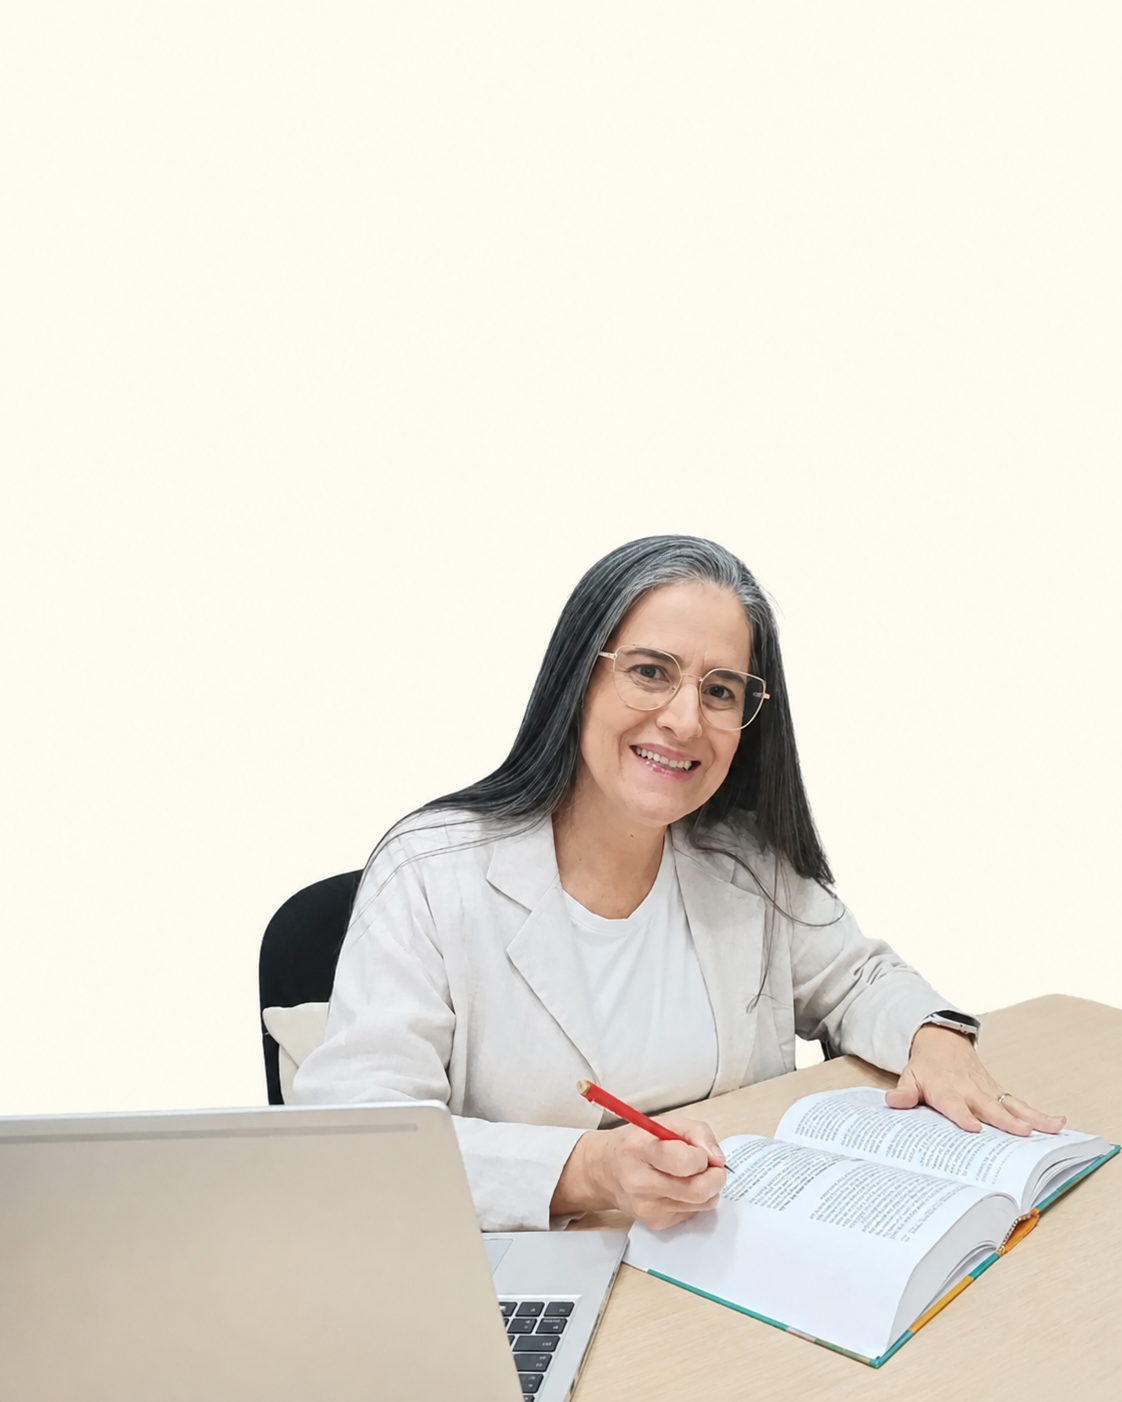
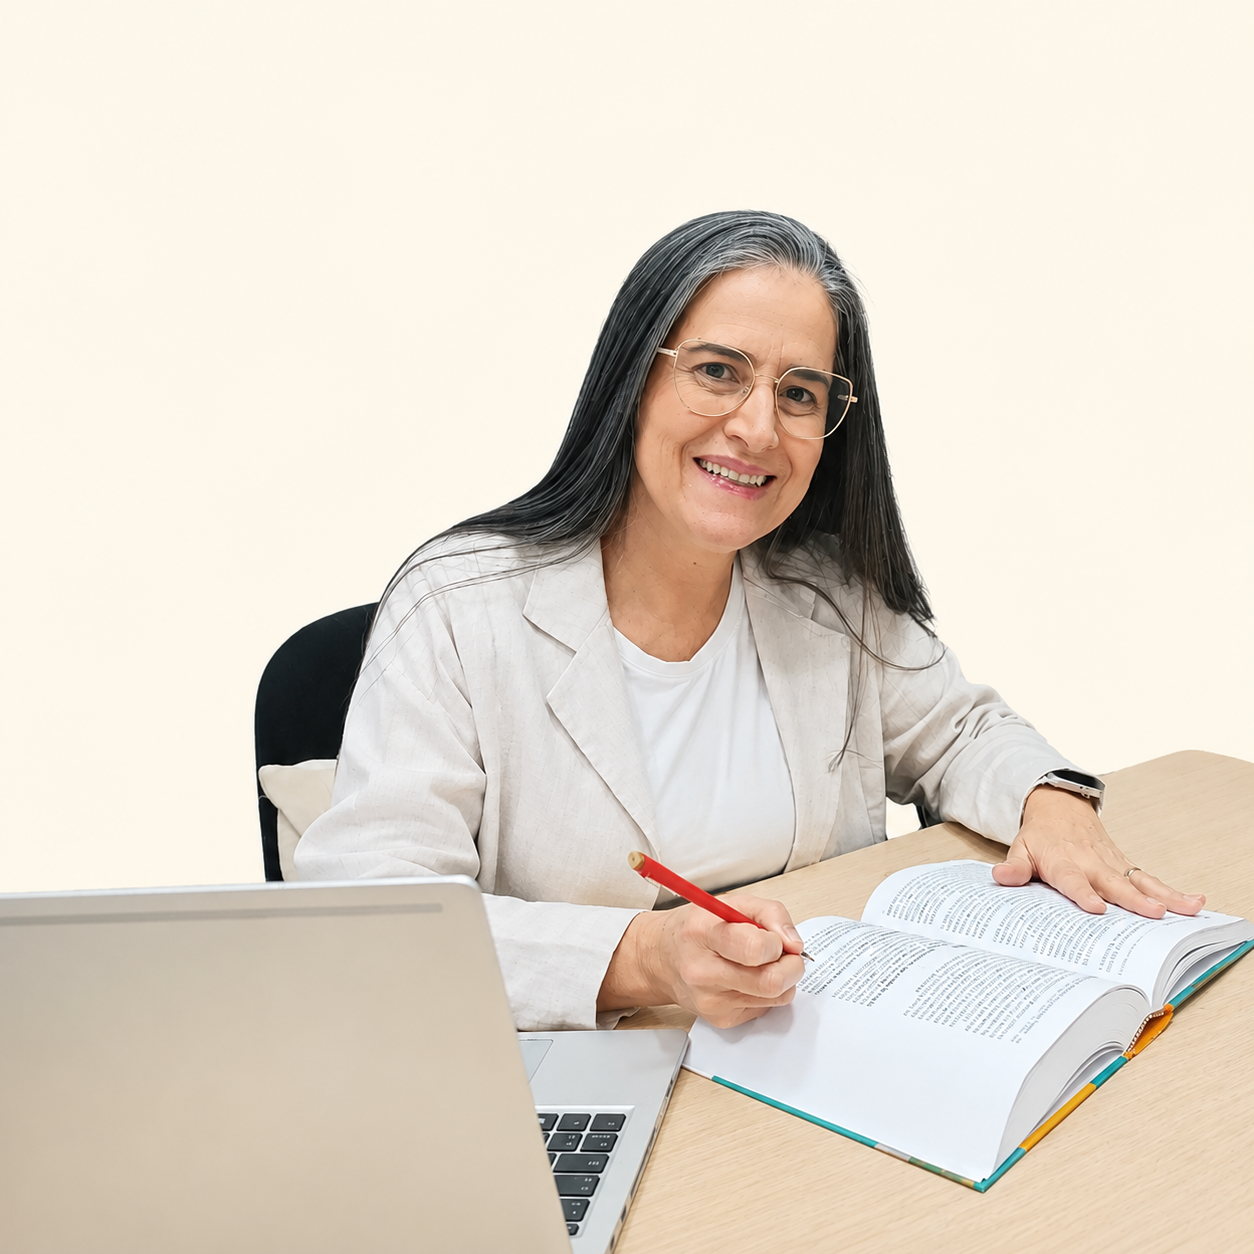
atualizações gerais

diff --git a/components/Header.tsx b/components/Header.tsx
@@ -5,6 +5,8 @@ import { motion, AnimatePresence } from "framer-motion";
 import { Menu, X, Phone, Mail, MapPin, Heart } from "lucide-react";
 import Image from "next/image";
 
+const whatsappLink = "https://wa.me/5515996542105?text=Ol%C3%A1%2C%20Sueli%21%20Gostaria%20de%20agendar%20uma%20consulta.";
+
 // Componente para criar os coraçõezinhos animados
 const FloatingHeart = ({ delay, startX, startY }: { delay: number, startX: number, startY: number }) => {
     return (
@@ -25,7 +27,6 @@ const FloatingHeart = ({ delay, startX, startY }: { delay: number, startX: numbe
             }}
             className="absolute z-10 pointer-events-none"
         >
-            {/* O coração usa a cor "sueli-rose" da sua paleta e uma leve sombra para destacar */}
             <Heart
                 size={14}
                 fill="currentColor"
@@ -43,7 +44,6 @@ export default function Header() {
     // Efeito para detectar o scroll da página
     useEffect(() => {
         const handleScroll = () => {
-            // Se a página rolar mais de 20px, ativa o fundo da header
             setIsScrolled(window.scrollY > 20);
         };
 
@@ -66,7 +66,6 @@ export default function Header() {
                 initial={{ opacity: 0, y: -20 }}
                 animate={{ opacity: 1, y: 0 }}
                 transition={{ duration: 0.8, ease: [0.16, 1, 0.3, 1] }}
-                // Inteligência do fundo: Transparente no topo, Vidro (Glass) ao rolar a tela
                 className={`fixed top-0 w-full z-40 transition-all duration-300 ${isScrolled
                     ? "bg-white/90 backdrop-blur-md shadow-sm py-0"
                     : "bg-transparent py-2"
@@ -86,8 +85,6 @@ export default function Header() {
                     {/* Logo Area Centralizada */}
                     <div className="absolute left-1/2 -translate-x-1/2 flex items-center justify-center">
                         <div className="relative inline-flex items-center justify-center">
-
-                            {/* Imagem do Logo */}
                             <Image
                                 src="/logo.png"
                                 alt="Sueli Lopes Psicóloga"
@@ -96,9 +93,7 @@ export default function Header() {
                                 className="object-contain h-24 w-auto relative z-20"
                                 priority
                             />
-
                             {/* Container dos corações flutuantes */}
-                            {/* AJUSTADO: Mudei o left de 56.5% para 55.5% para o milímetro perfeito */}
                             <div className="absolute z-10" style={{ left: '55.5%', top: '56%', transform: 'translate(-50%, -50%)' }}>
                                 <FloatingHeart delay={0.2} startX={0} startY={0} />
                                 <FloatingHeart delay={0.9} startX={3} startY={-2} />
@@ -106,7 +101,6 @@ export default function Header() {
                                 <FloatingHeart delay={2.3} startX={5} startY={-5} />
                                 <FloatingHeart delay={3.0} startX={-4} startY={4} />
                             </div>
-
                         </div>
                     </div>
 
@@ -118,63 +112,77 @@ export default function Header() {
             <AnimatePresence>
                 {isMenuOpen && (
                     <>
+                        {/* Fundo escuro/desfocado */}
                         <motion.div
                             initial={{ opacity: 0 }}
                             animate={{ opacity: 1 }}
                             exit={{ opacity: 0 }}
                             transition={{ duration: 0.3 }}
                             onClick={() => setIsMenuOpen(false)}
-                            className="fixed inset-0 bg-foreground/10 backdrop-blur-sm z-50"
+                            className="fixed inset-0 bg-sueli-teal/20 backdrop-blur-sm z-50"
                         />
 
+                        {/* Painel do Menu */}
                         <motion.aside
                             initial={{ x: "-100%" }}
                             animate={{ x: 0 }}
                             exit={{ x: "-100%" }}
                             transition={{ type: "spring", damping: 25, stiffness: 200 }}
-                            className="fixed top-0 left-0 h-screen w-80 max-w-[85vw] bg-background z-50 shadow-2xl border-r border-sueli-rose/30 flex flex-col"
+                            className="fixed top-0 left-0 h-screen w-[85vw] max-w-sm bg-white z-50 shadow-2xl flex flex-col"
                         >
-                            <div className="h-20 flex items-center justify-between px-6 border-b border-sueli-rose/30 shrink-0">
-                                <span className="font-medium text-sueli-teal tracking-wide">Navegação</span>
+                            {/* Cabeçalho do Menu */}
+                            <div className="h-24 flex items-center justify-between px-8 border-b border-sueli-teal/5 shrink-0">
+                                <span className="font-bold text-sueli-teal tracking-widest uppercase text-sm">Navegação</span>
                                 <button
                                     onClick={() => setIsMenuOpen(false)}
-                                    className="p-2 -mr-2 text-foreground hover:text-sueli-rose hover:bg-sueli-rose/10 rounded-full transition-colors"
+                                    className="p-2 -mr-2 text-sueli-teal hover:text-sueli-rose hover:bg-sueli-rose/10 rounded-full transition-colors flex items-center justify-center"
                                 >
                                     <X className="w-6 h-6" strokeWidth={1.5} />
                                 </button>
                             </div>
 
-                            <nav className="flex flex-col p-6 gap-2 mt-2 overflow-y-auto">
+                            {/* Links de Navegação */}
+                            <nav className="flex flex-col px-6 py-8 gap-2 overflow-y-auto">
                                 {menuItems.map((item, index) => (
                                     <motion.a
-                                        initial={{ opacity: 0, x: -10 }}
+                                        initial={{ opacity: 0, x: -20 }}
                                         animate={{ opacity: 1, x: 0 }}
                                         transition={{ delay: 0.1 + index * 0.05 }}
                                         key={index}
                                         href={item.href}
                                         onClick={() => setIsMenuOpen(false)}
-                                        className="text-foreground text-lg py-3 px-4 rounded-lg hover:bg-sueli-teal/5 hover:text-sueli-teal transition-all flex items-center group"
+                                        className="text-foreground/80 text-lg font-medium py-3 px-4 rounded-xl hover:bg-[#F7FBFB] hover:text-sueli-teal transition-all flex items-center group"
                                     >
-                                        <span className="w-0 h-[2px] bg-sueli-rose mr-0 group-hover:w-3 group-hover:mr-3 transition-all duration-300"></span>
+                                        <span className="w-1.5 h-1.5 rounded-full bg-sueli-rose opacity-0 group-hover:opacity-100 mr-0 group-hover:mr-4 transition-all duration-300"></span>
                                         {item.name}
                                     </motion.a>
                                 ))}
                             </nav>
 
-                            <div className="mt-auto border-t border-sueli-rose/30 bg-sueli-teal/5 p-6 shrink-0">
-                                <h3 className="text-sm font-semibold text-sueli-teal mb-4 uppercase tracking-wider">Fale Conosco</h3>
-                                <div className="flex flex-col gap-4 text-sm text-foreground/80">
-                                    <div className="flex items-center gap-3">
-                                        <Phone className="w-4 h-4 text-sueli-rose shrink-0" />
-                                        <span>(15) 99654-2105</span>
-                                    </div>
-                                    <div className="flex items-center gap-3">
-                                        <Mail className="w-4 h-4 text-sueli-rose shrink-0" />
-                                        <span className="truncate">[email redacted]</span>
-                                    </div>
-                                    <div className="flex items-start gap-3">
-                                        <MapPin className="w-4 h-4 text-sueli-rose shrink-0 mt-0.5" />
-                                        <span className="leading-snug">Av. Darcí Viêira, 1904 - Centro<br />Itapetininga - SP</span>
+                            {/* Rodapé do Menu (Contatos) */}
+                            <div className="mt-auto bg-[#F7FBFB] p-8 shrink-0 rounded-t-3xl border-t border-sueli-teal/5">
+                                <h3 className="text-xs font-bold text-sueli-teal/70 mb-6 uppercase tracking-[0.15em]">Fale Conosco</h3>
+
+                                <div className="flex flex-col gap-5 text-sm text-foreground/80">
+                                    <a href={whatsappLink} target="_blank" rel="noreferrer" className="flex items-center gap-4 group">
+                                        <div className="w-10 h-10 rounded-full bg-white flex items-center justify-center shadow-[0_2px_10px_rgba(0,0,0,0.03)] group-hover:shadow-[0_4px_15px_rgba(76,161,155,0.1)] transition-all">
+                                            <Phone className="w-4 h-4 text-sueli-rose" />
+                                        </div>
+                                        <span className="font-medium group-hover:text-sueli-teal transition-colors">(15) 99654-2105</span>
+                                    </a>
+
+                                    <a href="mailto:[email redacted]" className="flex items-center gap-4 group">
+                                        <div className="w-10 h-10 rounded-full bg-white flex items-center justify-center shadow-[0_2px_10px_rgba(0,0,0,0.03)] group-hover:shadow-[0_4px_15px_rgba(76,161,155,0.1)] transition-all">
+                                            <Mail className="w-4 h-4 text-sueli-rose" />
+                                        </div>
+                                        <span className="font-medium group-hover:text-sueli-teal transition-colors truncate">[email redacted]</span>
+                                    </a>
+
+                                    <div className="flex items-start gap-4">
+                                        <div className="w-10 h-10 rounded-full bg-white flex items-center justify-center shadow-[0_2px_10px_rgba(0,0,0,0.03)] shrink-0">
+                                            <MapPin className="w-4 h-4 text-sueli-rose" />
+                                        </div>
+                                        <span className="leading-relaxed font-medium pt-1">Av. Darcí Viêira, 1904 <br />Centro, Itapetininga - SP</span>
                                     </div>
                                 </div>
                             </div>

diff --git a/app/page.tsx b/app/page.tsx
@@ -120,7 +120,6 @@ export default function Home() {
 
         <div className="relative max-w-7xl mx-auto w-full grid grid-cols-1 lg:grid-cols-2 gap-12 lg:gap-8 items-center z-10">
 
-          {/* TEXTO - Com order-2 para ficar embaixo no celular, e lg:order-1 para a esquerda no PC */}
           <motion.div
             initial={{ opacity: 0, y: 30 }}
             animate={{ opacity: 1, y: 0 }}
@@ -143,7 +142,6 @@ export default function Home() {
             </motion.button>
           </motion.div>
 
-          {/* IMAGEM - Com order-1 para ficar no topo no celular, e lg:order-2 para a direita no PC */}
           <motion.div
             initial={{ opacity: 0, scale: 0.95 }}
             animate={{ opacity: 1, scale: 1 }}
@@ -182,7 +180,7 @@ export default function Home() {
           </motion.div>
 
           <motion.div variants={containerVariants} initial="hidden" whileInView="show" viewport={{ once: true, margin: "-50px" }} className="grid grid-cols-1 md:grid-cols-3 gap-8 lg:gap-10">
-            <motion.div variants={itemVariants} className="group bg-white rounded-[2rem] p-8 lg:p-10 border border-sueli-teal/10 shadow-[0_4px_20px_rgba(0,0,0,0.03)] hover:shadow-[0_8px_30px_rgba(76,161,155,0.08)] transition-all duration-500 hover:-translate-y-2 flex flex-col">
+            <motion.div variants={itemVariants} className="group bg-white rounded-[2rem] p-8 lg:p-10 border border-sueli-teal/10 shadow-[0_4px_20px_rgba(0,0,0,0.03)] hover:shadow-[0_8px_30px_rgba(76,161,155,0.08)] transition-all duration-500 hover:-translate-y-2 flex flex-col items-center text-center md:items-start md:text-left">
               <div className="w-16 h-16 rounded-2xl bg-[#FDF0F0] flex items-center justify-center mb-6 group-hover:scale-110 transition-transform duration-500">
                 <Heart className="w-8 h-8 text-sueli-rose" strokeWidth={1.5} />
               </div>
@@ -192,7 +190,7 @@ export default function Home() {
               </p>
             </motion.div>
 
-            <motion.div variants={itemVariants} className="group bg-white rounded-[2rem] p-8 lg:p-10 border border-sueli-teal/10 shadow-[0_4px_20px_rgba(0,0,0,0.03)] hover:shadow-[0_8px_30px_rgba(76,161,155,0.08)] transition-all duration-500 hover:-translate-y-2 flex flex-col">
+            <motion.div variants={itemVariants} className="group bg-white rounded-[2rem] p-8 lg:p-10 border border-sueli-teal/10 shadow-[0_4px_20px_rgba(0,0,0,0.03)] hover:shadow-[0_8px_30px_rgba(76,161,155,0.08)] transition-all duration-500 hover:-translate-y-2 flex flex-col items-center text-center md:items-start md:text-left">
               <div className="w-16 h-16 rounded-2xl bg-[#FDF0F0] flex items-center justify-center mb-6 group-hover:scale-110 transition-transform duration-500">
                 <Compass className="w-8 h-8 text-sueli-rose" strokeWidth={1.5} />
               </div>
@@ -202,7 +200,7 @@ export default function Home() {
               </p>
             </motion.div>
 
-            <motion.div variants={itemVariants} className="group bg-white rounded-[2rem] p-8 lg:p-10 border border-sueli-teal/10 shadow-[0_4px_20px_rgba(0,0,0,0.03)] hover:shadow-[0_8px_30px_rgba(76,161,155,0.08)] transition-all duration-500 hover:-translate-y-2 flex flex-col">
+            <motion.div variants={itemVariants} className="group bg-white rounded-[2rem] p-8 lg:p-10 border border-sueli-teal/10 shadow-[0_4px_20px_rgba(0,0,0,0.03)] hover:shadow-[0_8px_30px_rgba(76,161,155,0.08)] transition-all duration-500 hover:-translate-y-2 flex flex-col items-center text-center md:items-start md:text-left">
               <div className="w-16 h-16 rounded-2xl bg-[#FDF0F0] flex items-center justify-center mb-6 group-hover:scale-110 transition-transform duration-500">
                 <Sparkles className="w-8 h-8 text-sueli-rose" strokeWidth={1.5} />
               </div>
@@ -218,13 +216,26 @@ export default function Home() {
       {/* 3. Sobre Mim */}
       <section id="sobre" className="py-24 lg:py-32 relative bg-[#F7FBFB]">
         <div className="max-w-7xl mx-auto px-4 sm:px-6 lg:px-8">
-          <div className="grid grid-cols-1 lg:grid-cols-2 gap-12 lg:gap-16 items-center">
+          <div className="grid grid-cols-1 lg:grid-cols-2 gap-10 lg:gap-16 items-center">
+
+            <motion.div
+              initial={{ opacity: 0, y: -20 }}
+              whileInView={{ opacity: 1, y: 0 }}
+              viewport={{ once: true, margin: "-100px" }}
+              transition={{ duration: 0.8, ease: "easeOut" } as any}
+              className="order-1 lg:hidden"
+            >
+              <div className="w-12 h-1.5 bg-sueli-rose rounded-full mb-6 shadow-sm"></div>
+              <h2 className="text-3xl md:text-4xl font-bold text-sueli-teal mb-4 tracking-tight leading-tight">Muito prazer, <span className="text-sueli-rose">sou Sueli Lopes.</span></h2>
+              <h3 className="text-sm font-bold text-sueli-teal/70 uppercase tracking-[0.2em]">Psicóloga Clínica • CRP 06/87929</h3>
+            </motion.div>
+
             <motion.div
               initial={{ opacity: 0, x: -30 }}
               whileInView={{ opacity: 1, x: 0 }}
               viewport={{ once: true, margin: "-100px" }}
               transition={{ duration: 0.8, ease: "easeOut" } as any}
-              className="order-1 lg:order-1"
+              className="order-2 lg:order-1"
             >
               <div className="relative w-full max-w-md mx-auto aspect-[4/5] rounded-[2rem] border-[3px] border-sueli-rose bg-white shadow-[0_8px_30px_rgba(76,161,155,0.1)] overflow-hidden group">
                 <Image
@@ -243,11 +254,13 @@ export default function Home() {
               whileInView={{ opacity: 1, x: 0 }}
               viewport={{ once: true, margin: "-100px" }}
               transition={{ duration: 0.8, ease: "easeOut", delay: 0.2 } as any}
-              className="order-2 lg:order-2"
+              className="order-3 lg:order-2"
             >
-              <div className="w-12 h-1.5 bg-sueli-rose rounded-full mb-8 shadow-sm"></div>
-              <h2 className="text-3xl md:text-4xl lg:text-5xl font-bold text-sueli-teal mb-4 tracking-tight leading-tight">Muito prazer, <br className="hidden lg:block" /><span className="text-sueli-rose">sou Sueli Lopes.</span></h2>
-              <h3 className="text-sm font-bold text-sueli-teal/70 mb-8 uppercase tracking-[0.2em]">Psicóloga Clínica • CRP 06/87929</h3>
+              <div className="hidden lg:block">
+                <div className="w-12 h-1.5 bg-sueli-rose rounded-full mb-8 shadow-sm"></div>
+                <h2 className="text-4xl lg:text-5xl font-bold text-sueli-teal mb-4 tracking-tight leading-tight">Muito prazer, <br /><span className="text-sueli-rose">sou Sueli Lopes.</span></h2>
+                <h3 className="text-sm font-bold text-sueli-teal/70 mb-8 uppercase tracking-[0.2em]">Psicóloga Clínica • CRP 06/87929</h3>
+              </div>
 
               <div className="space-y-6 text-foreground/80 font-light leading-relaxed text-lg">
                 <p>Acredito que a terapia é um espaço sagrado de reencontro consigo mesmo. Com mais de 20 anos de experiência clínica, dedico minha trajetória a oferecer uma escuta atenta, ética e profundamente humana.</p>
@@ -436,7 +449,8 @@ export default function Home() {
             </motion.div>
           </div>
 
-          <div className="grid grid-cols-1 lg:grid-cols-2 gap-12 lg:gap-16 items-start">
+          {/* ALTERAÇÃO AQUI: max-w-md mx-auto adicionado para manter o bloco centralizado no mobile */}
+          <div className="grid grid-cols-1 lg:grid-cols-2 gap-12 lg:gap-16 items-start max-w-md mx-auto lg:max-w-none">
             <motion.div
               initial={{ opacity: 0, x: -30 }}
               whileInView={{ opacity: 1, y: 0 }}
@@ -444,8 +458,9 @@ export default function Home() {
               transition={{ duration: 0.8, ease: "easeOut" } as any}
               className="bg-white p-8 lg:p-10 rounded-[2rem] border border-sueli-teal/10 shadow-[0_4px_20px_rgba(0,0,0,0.03)] flex flex-col space-y-10"
             >
-              <div className="flex flex-col md:flex-row gap-6 items-start border-b border-sueli-teal/10 pb-8">
-                <div className="w-12 h-12 rounded-2xl bg-[#FDF0F0] flex items-center justify-center shrink-0">
+              {/* ENDEREÇO - Alterado para centralizar no celular */}
+              <div className="flex flex-col md:flex-row gap-6 items-center text-center md:items-start md:text-left border-b border-sueli-teal/10 pb-8">
+                <div className="w-12 h-12 rounded-2xl bg-[#FDF0F0] flex items-center justify-center shrink-0 mx-auto md:mx-0">
                   <MapPin className="w-6 h-6 text-sueli-rose" />
                 </div>
                 <div>
@@ -458,15 +473,16 @@ export default function Home() {
                 </div>
               </div>
 
+              {/* HORÁRIOS - Alterado para centralizar no celular */}
               <div>
-                <div className="flex items-center gap-4 mb-6">
-                  <div className="w-12 h-12 rounded-2xl bg-[#FDF0F0] flex items-center justify-center shrink-0">
+                <div className="flex flex-col md:flex-row items-center text-center md:items-start md:text-left gap-4 mb-6">
+                  <div className="w-12 h-12 rounded-2xl bg-[#FDF0F0] flex items-center justify-center shrink-0 mx-auto md:mx-0">
                     <Clock className="w-6 h-6 text-sueli-rose" />
                   </div>
-                  <h3 className="text-xl font-bold text-sueli-teal">Horário de Atendimento</h3>
+                  <h3 className="text-xl font-bold text-sueli-teal md:mt-2">Horário de Atendimento</h3>
                 </div>
 
-                <div className="space-y-4">
+                <div className="space-y-4 w-full max-w-sm mx-auto md:max-w-none md:mx-0">
                   {operatingHours.map((schedule, index) => (
                     <div key={index} className="flex justify-between items-center border-b border-gray-100 pb-3 last:border-0 last:pb-0">
                       <span className="text-foreground/70 font-medium">{schedule.day}</span>